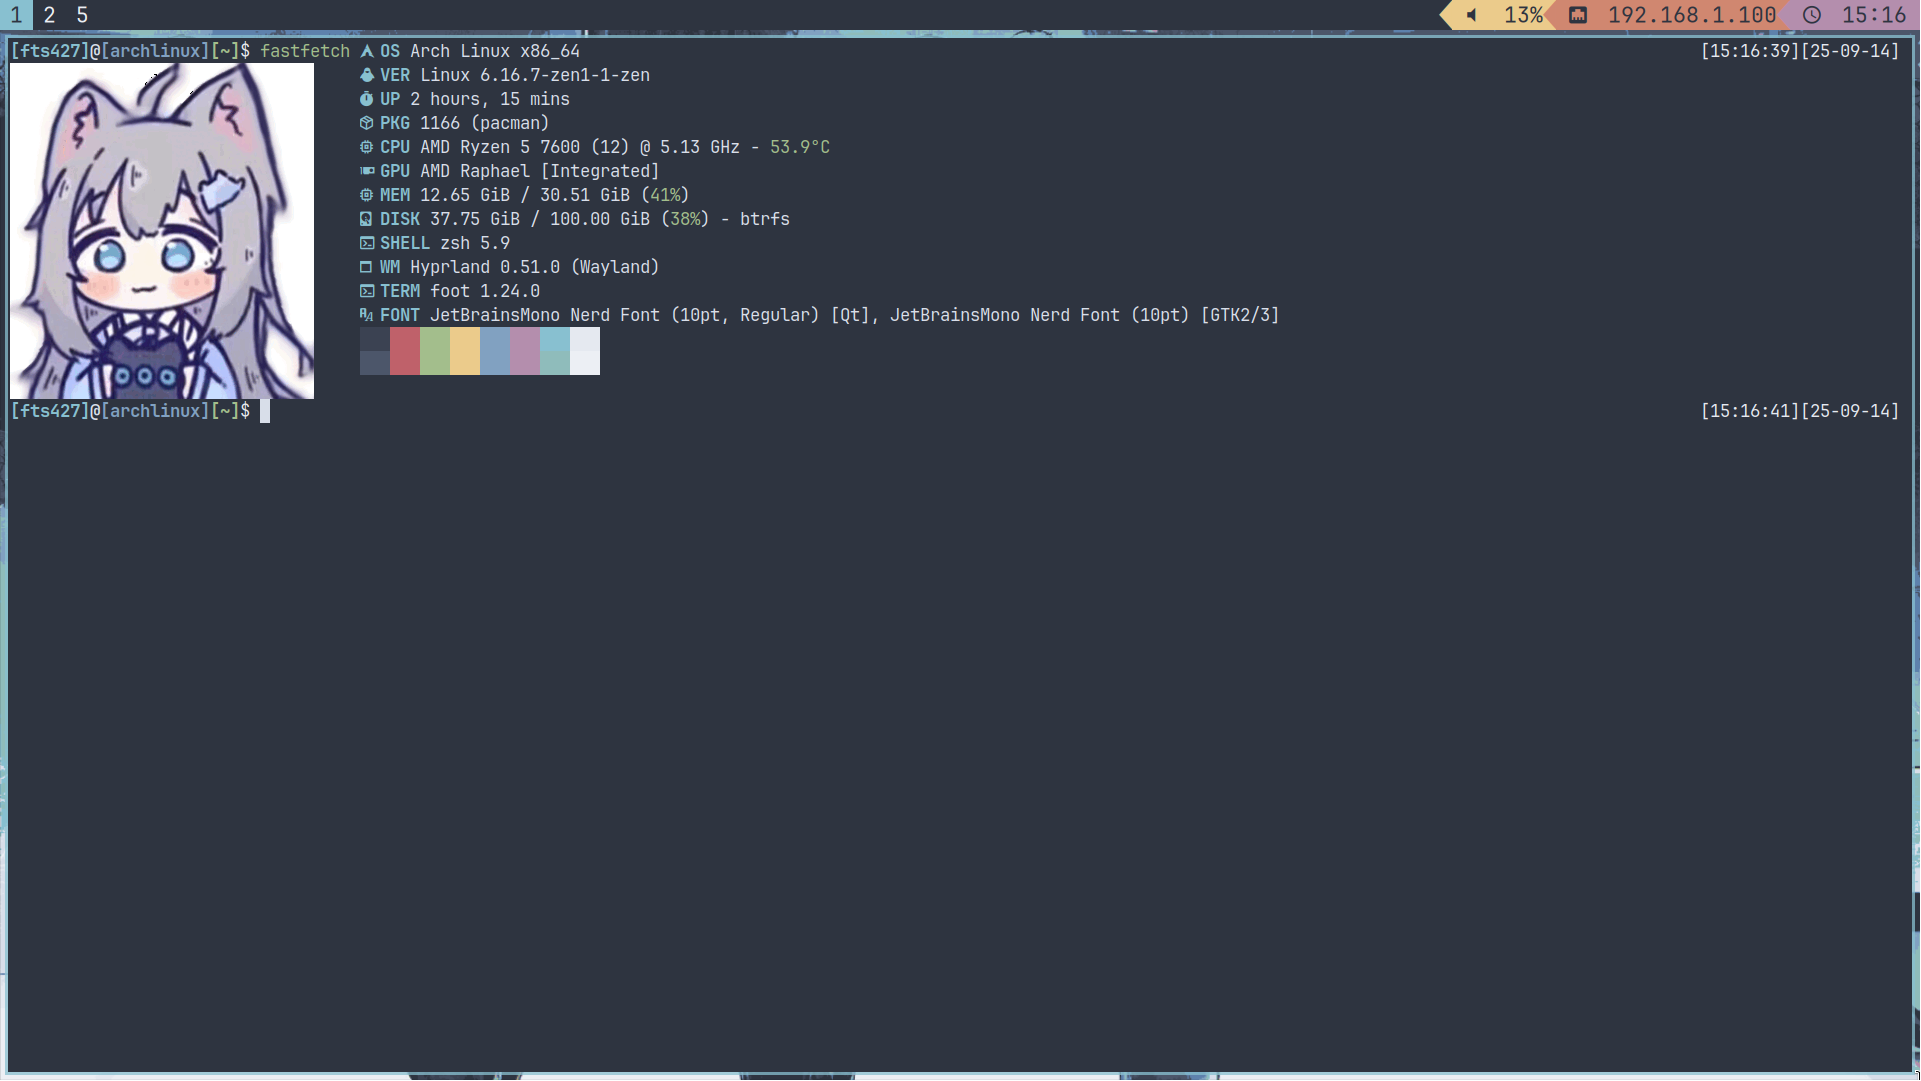
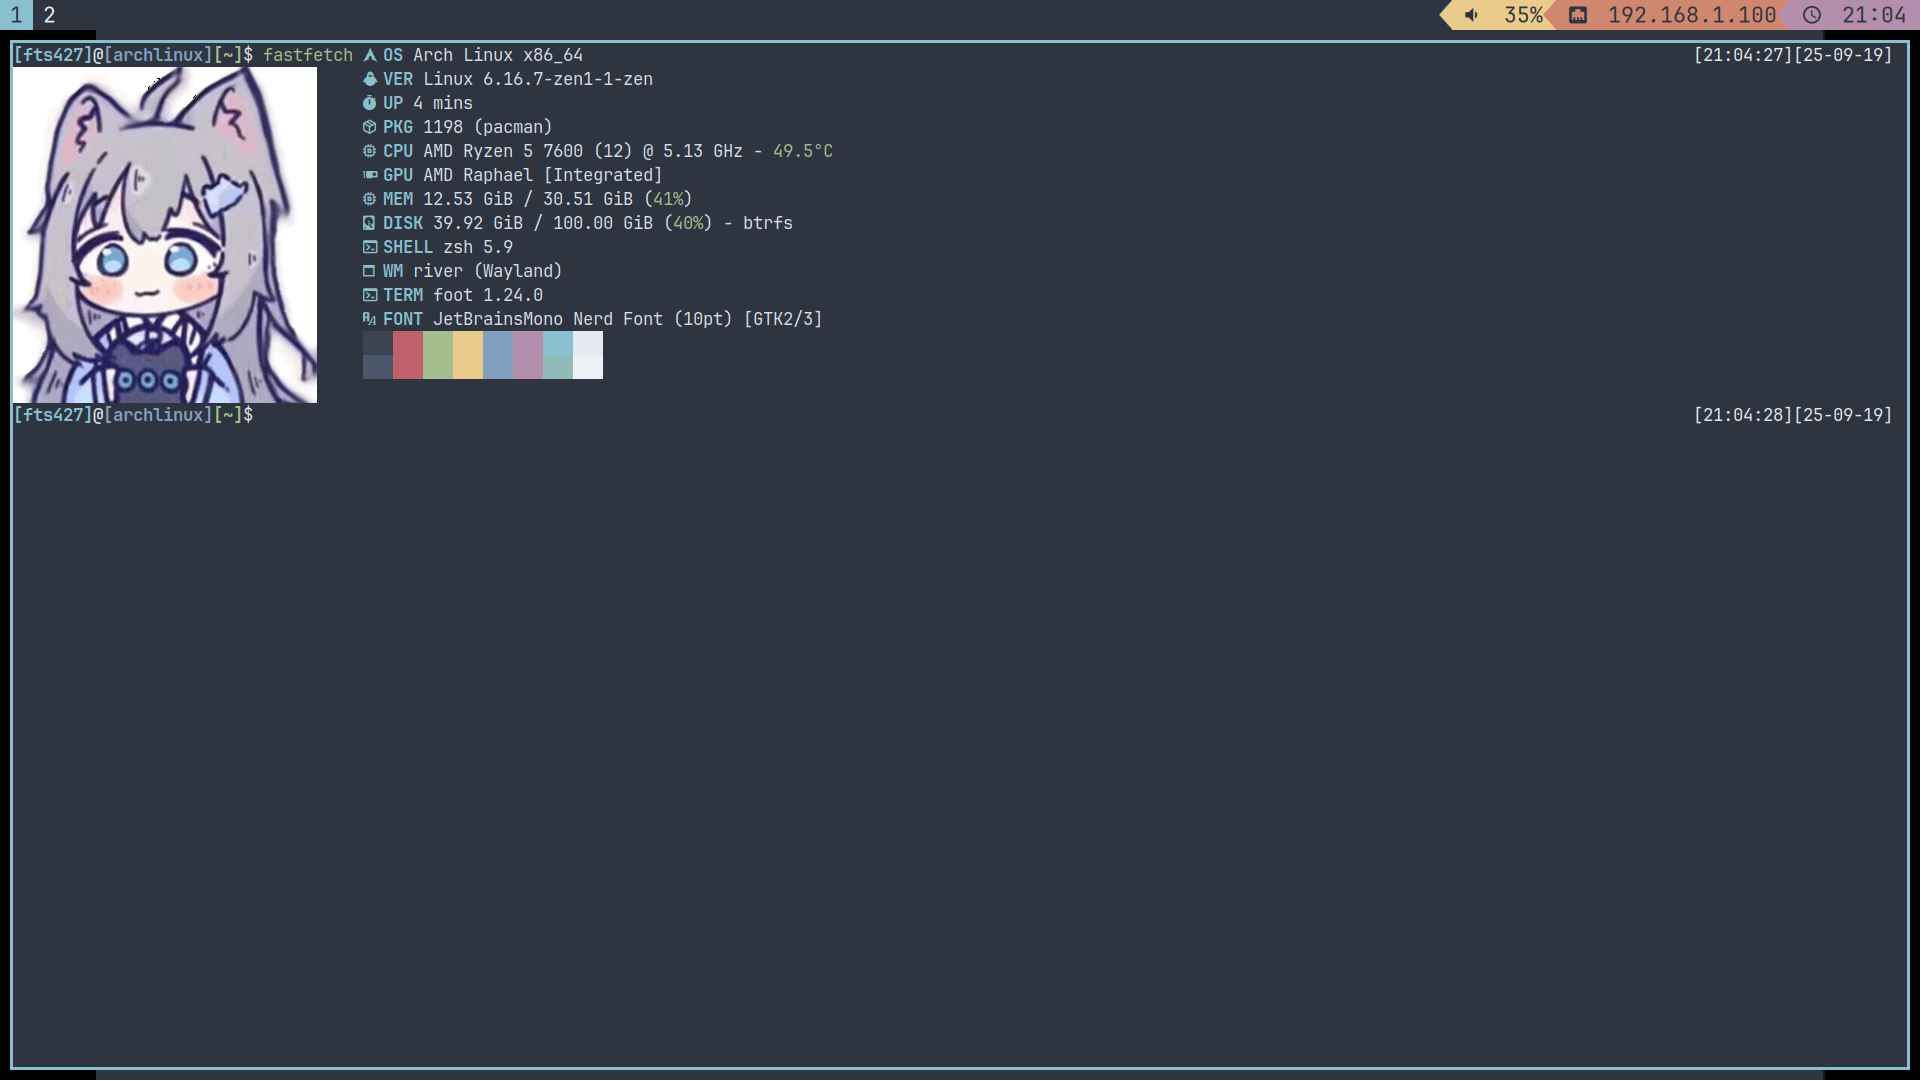
U | River time!

Changed region(s): [[0.0, 0.0, 0.9995, 1.0]]

diff --git a/README.md b/README.md
@@ -6,7 +6,7 @@ Suitable for archlinux
 
 ## Config
 
-DE: Hyprland
+DE: River
 
 Terminal: foot
 
